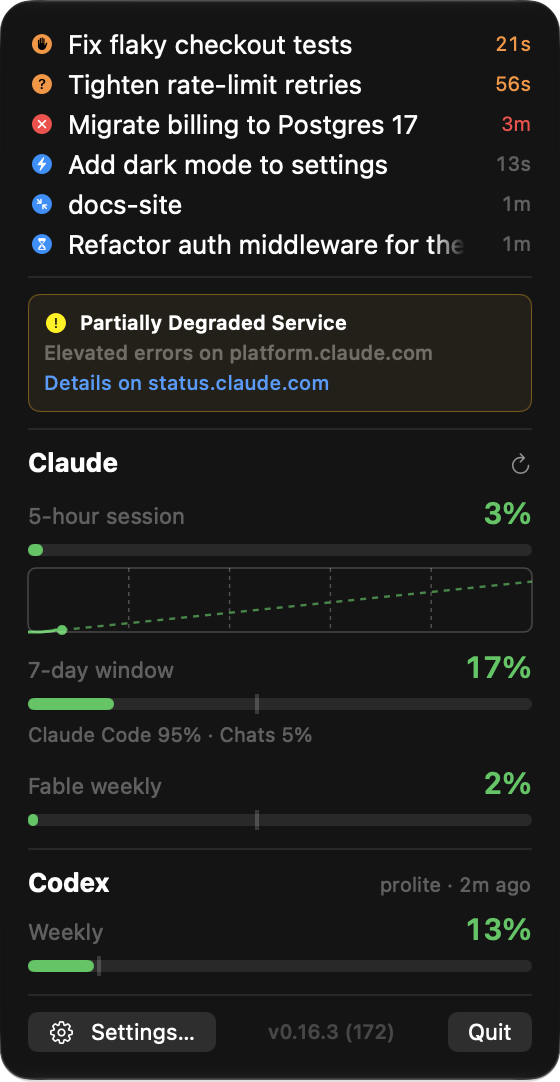
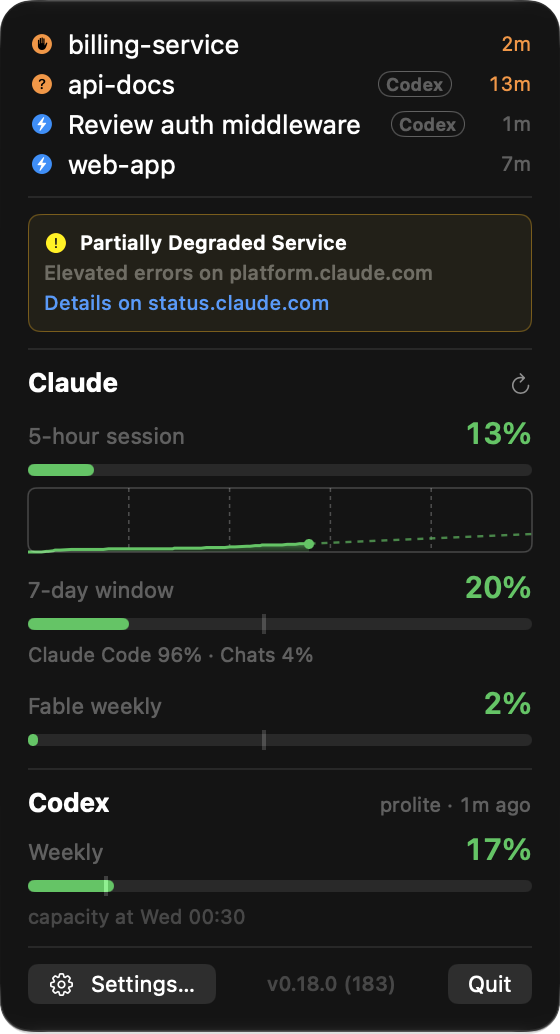
docs: dropdown and General screenshots from v0.18.0 with Codex sessions

diff --git a/README.md b/README.md
@@ -76,8 +76,8 @@ work between the two quotas. See [Codex usage](#codex-usage).
 ### Dropdown
 
 <picture>
-  <source media="(prefers-color-scheme: dark)" srcset="docs/screenshots/dropdown-dark.png?v=0.16.3">
-  <img alt="dropdown panel" src="docs/screenshots/dropdown-light.png?v=0.16.3" width="280">
+  <source media="(prefers-color-scheme: dark)" srcset="docs/screenshots/dropdown-dark.png?v=0.18.0">
+  <img alt="dropdown panel" src="docs/screenshots/dropdown-light.png?v=0.18.0" width="280">
 </picture>
 
 - A **Claude** header with the ↻ refresh button (⌘R) right-aligned;
@@ -200,8 +200,8 @@ windows; the gauge needle always shows the absolute level.
 ### Settings window
 
 <picture>
-  <source media="(prefers-color-scheme: dark)" srcset="docs/screenshots/settings-general-dark.png?v=0.14.2">
-  <img alt="Settings — General tab" src="docs/screenshots/settings-general-light.png?v=0.14.2" width="460">
+  <source media="(prefers-color-scheme: dark)" srcset="docs/screenshots/settings-general-dark.png?v=0.18.0">
+  <img alt="Settings — General tab" src="docs/screenshots/settings-general-light.png?v=0.18.0" width="460">
 </picture>
 &nbsp;
 <picture>
